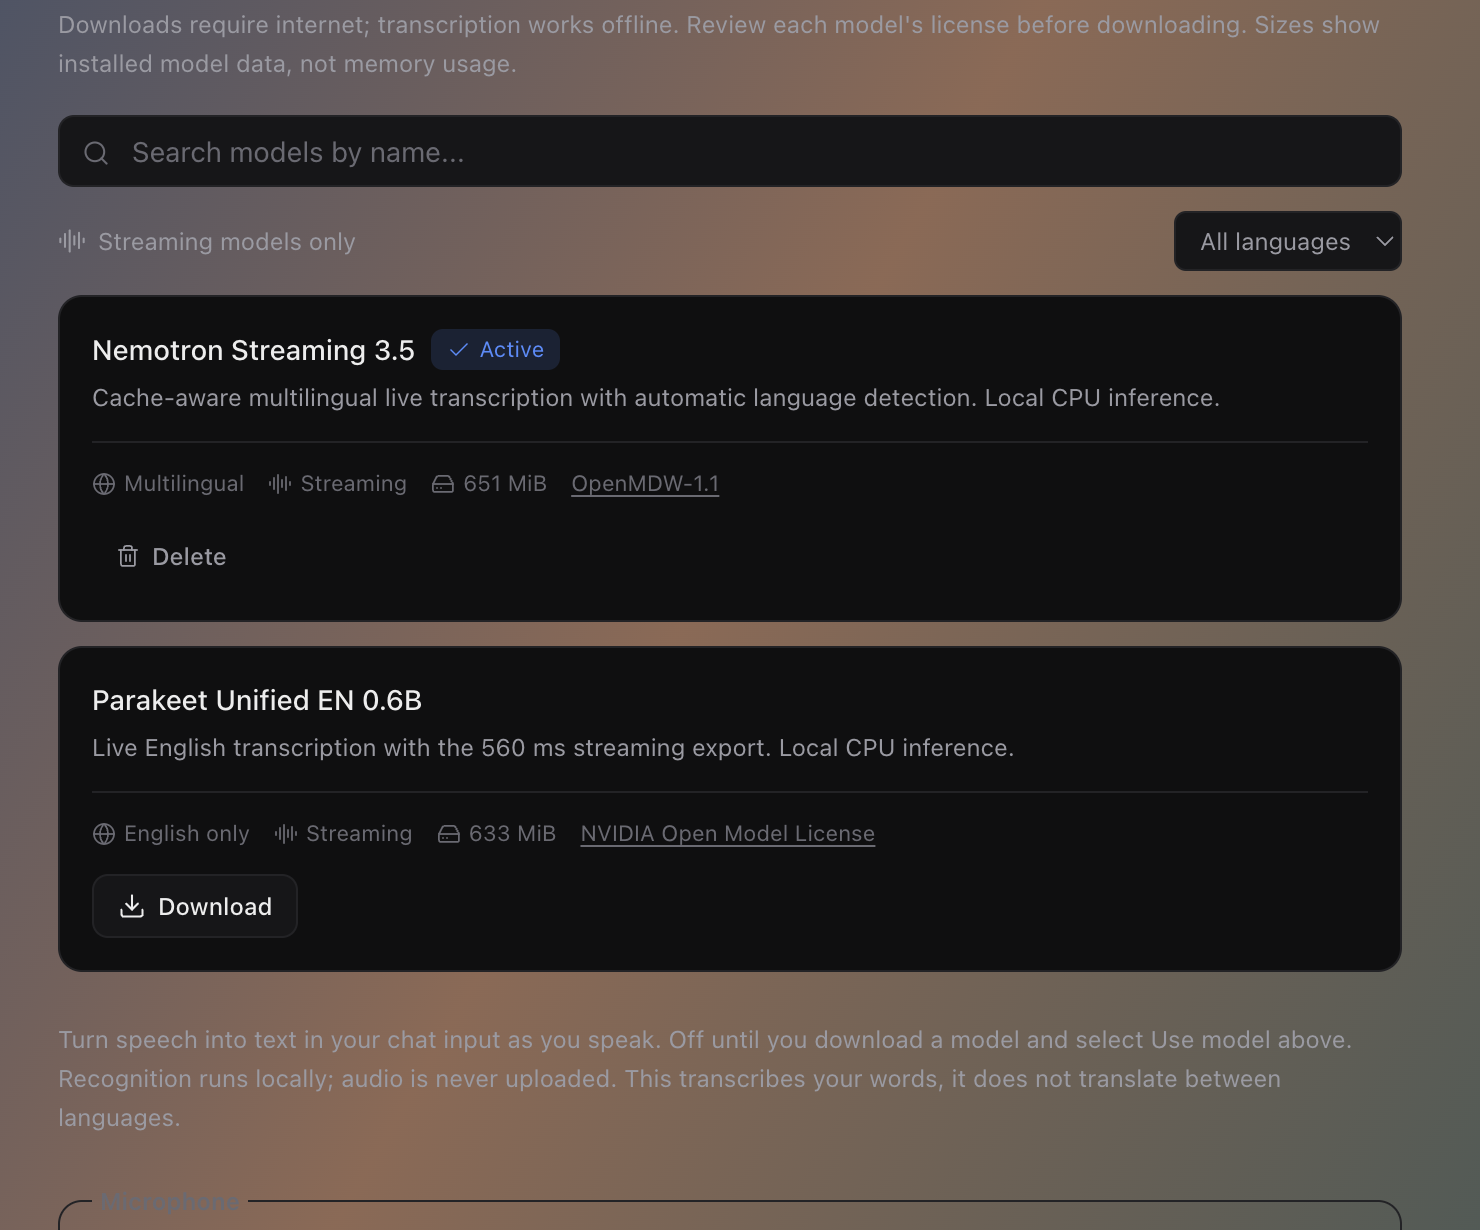
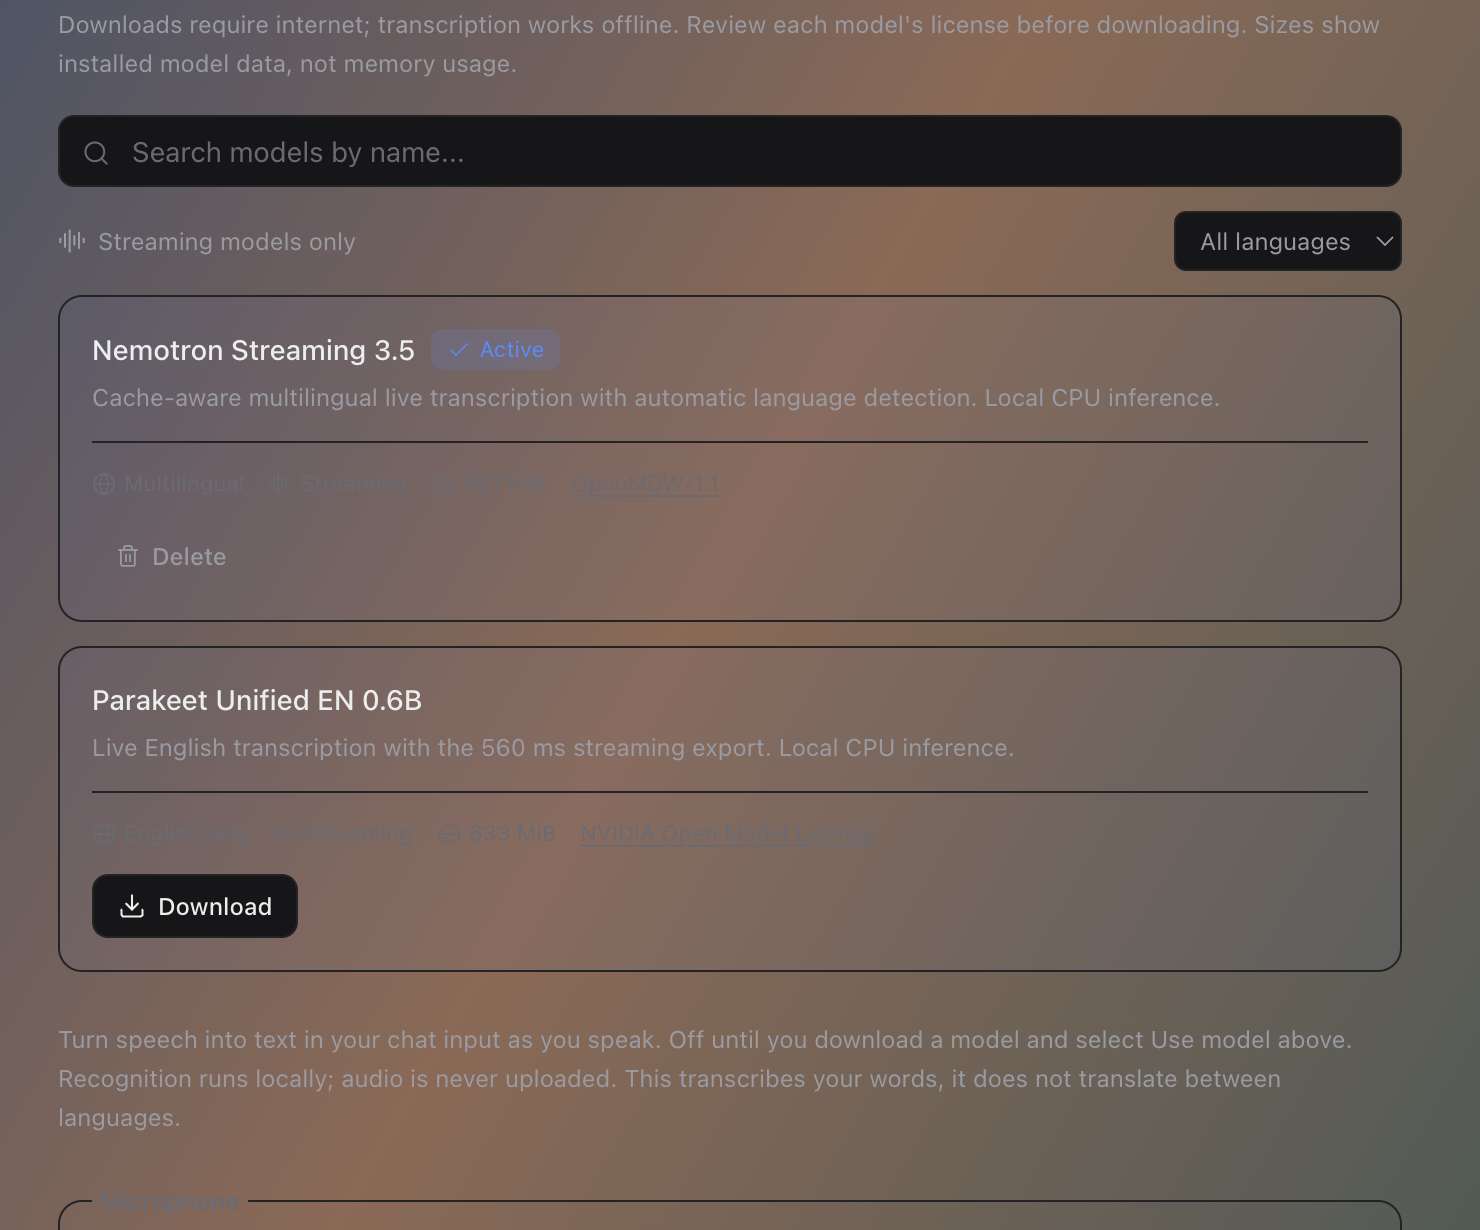
fix(ui): preserve translucent card surfaces across voice and themes
Follow the intended translucent accent treatment for both active and inactive cards instead of forcing opaque surfaces. Add a reproducible 13-theme regression test and correct the visual comparison.

diff --git a/src/renderer/src/components/ui.tsx b/src/renderer/src/components/ui.tsx
@@ -130,18 +130,12 @@ export function Card({ className, ...props }: HTMLAttributes<HTMLDivElement>): J
 }
 
 /**
- * Surface for a card that can be the "selected" one in a list (active theme,
- * active voice model, ...).
- *
- * The fill is ALWAYS the opaque `bg-surface`; selection only recolors the border
- * and the squircle hairline. Never express selection as a translucent fill such
- * as `bg-accent/5` on its own: with a wallpaper behind the page there is nothing
- * under that 5% tint, so the selected card goes see-through while its siblings
- * stay solid.
+ * Keep active and inactive cards on the same translucent accent surface.
+ * Selection changes the border, not whether the wallpaper can show through.
  */
 export function selectableCard(active: boolean): string {
   return cn(
-    'sq sq-xl sq-ring rounded-xl border bg-surface transition',
+    'sq sq-xl sq-ring rounded-xl border bg-accent/5 transition',
     active
       ? 'border-accent/50 [--sq-ring:color-mix(in_srgb,var(--color-accent)_50%,transparent)]'
       : 'border-border'

diff --git a/docs/pr/visual-fixes/README.md b/docs/pr/visual-fixes/README.md
@@ -19,6 +19,6 @@ Native traffic lights are outside `webContents.capturePage` and are not included
 
 ## Selected Voice Model
 
-| Before                                                                                             | After                                                                                     |
-| -------------------------------------------------------------------------------------------------- | ----------------------------------------------------------------------------------------- |
-| ![Selected voice card showing the fixture gradient through its translucent fill](voice-before.png) | ![Selected voice card using the same solid surface as the inactive card](voice-after.png) |
+| Before                                                                                       | After                                                                                                                         |
+| -------------------------------------------------------------------------------------------- | ----------------------------------------------------------------------------------------------------------------------------- |
+| ![Only the selected voice card is translucent while its sibling is opaque](voice-before.png) | ![Both voice cards preserve the translucent accent surface with selection indicated by the border and badge](voice-after.png) |

diff --git a/test/canvas/README.md b/test/canvas/README.md
@@ -1,5 +1,6 @@
 # Canvas Regression Harness
 
+- `npm run smoke:selected-cards-ui` checks matching translucent accent fills, opaque text/content and selection rings in Voice and Themes across all 13 built-in themes, including production Apply actions. Uses isolated app data and port 3107.
 - `npm run smoke:window-controls-ui` checks Back alignment and fixed native-control reservations while scrolling browser tabs, with macOS/Windows/Linux CSS at desktop and narrow widths. Runs on port 3107 with isolated app data; native controls use the host OS.
 - `npx electron test/canvas/sidebar-smoke.cjs` checks sidebar Git dots, centered multi-repo clusters, hover/focus/delete, restart cache hydration, failed lookups, and successful refreshes on port 3105. Uses isolated temporary app data; `CANVAS_TEST_URL` can point at an existing harness server.
 - `npm run canvas` opens interactive transcript, diff, and prompt-navigation fixtures on port 3114.
